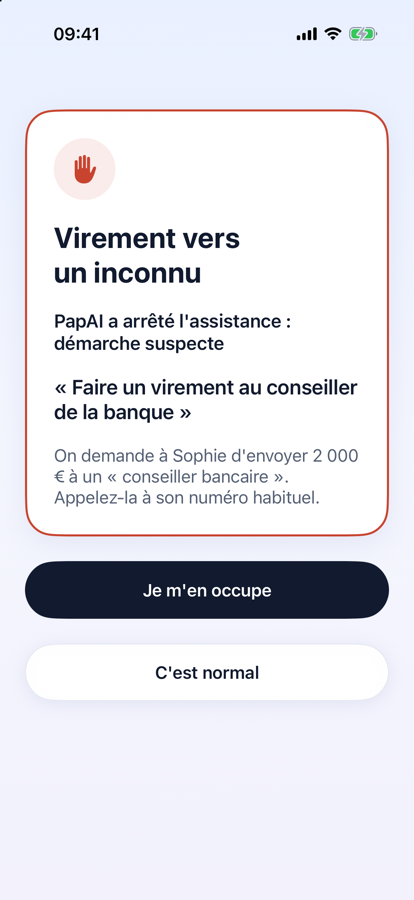
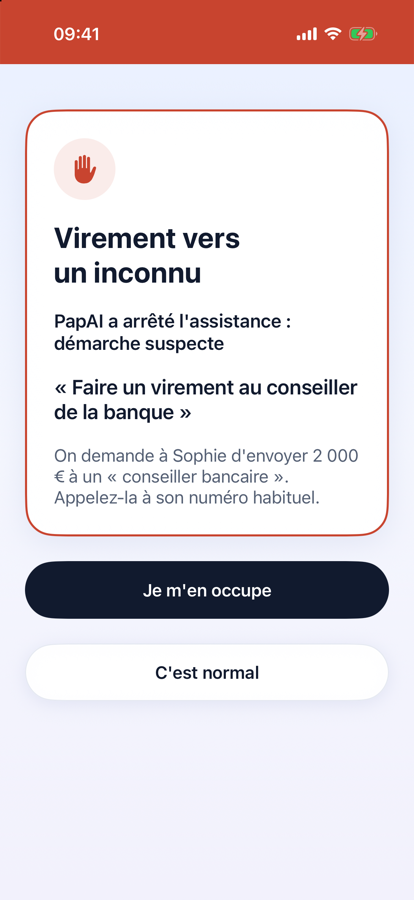
iPhone : barre d'état blanche sur l'en-tête bleu
UIStatusBarStyleLightContent (non lié aux contrôleurs) : heure et icônes
en blanc, l'app reste en mode clair. L'alerte du gardien, sur fond clair,
reçoit une bande rouge sous la barre d'état pour que l'heure reste lisible.

Claude-Session: https://claude.ai/code/session_01Lp2MYMZNKRAvWK8QUCtXVU

Changed region(s): [[0.0, 0.0, 1.0, 0.0933]]

diff --git a/apps/ios/Sources/GuardRequestView.swift b/apps/ios/Sources/GuardRequestView.swift
@@ -53,6 +53,10 @@ struct GuardRequestView: View {
             .padding(24).padding(.vertical, 20)
         }
         .background { SoinBackground() }
+        // Bande rouge sous la barre d'état : l'heure, blanche, reste lisible et l'alerte se voit d'emblée.
+        .safeAreaInset(edge: .top, spacing: 0) {
+            Color.clear.frame(height: 0).background(Soin.danger.ignoresSafeArea(edges: .top))
+        }
     }
 
     private var instructions: String {
